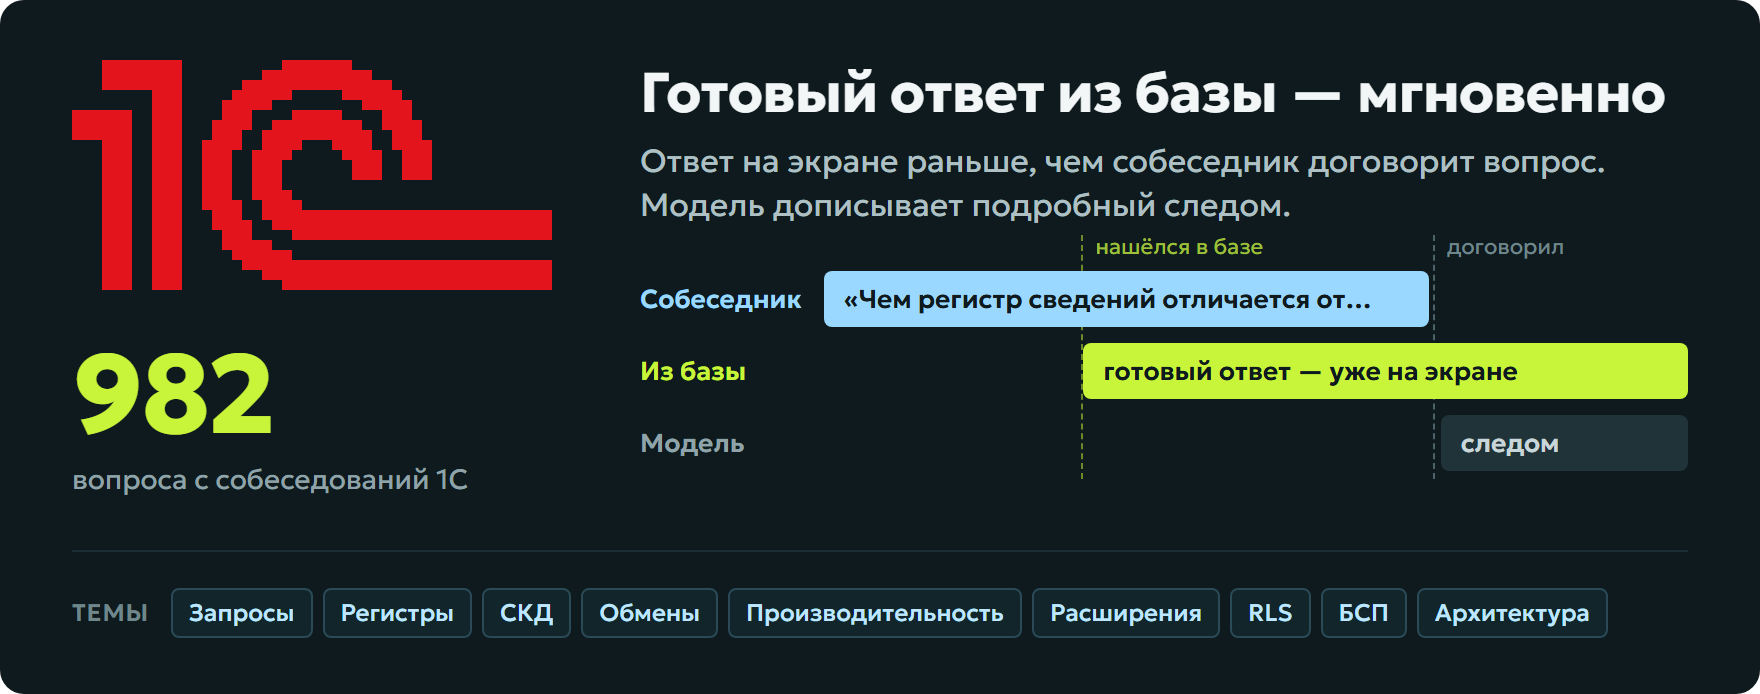
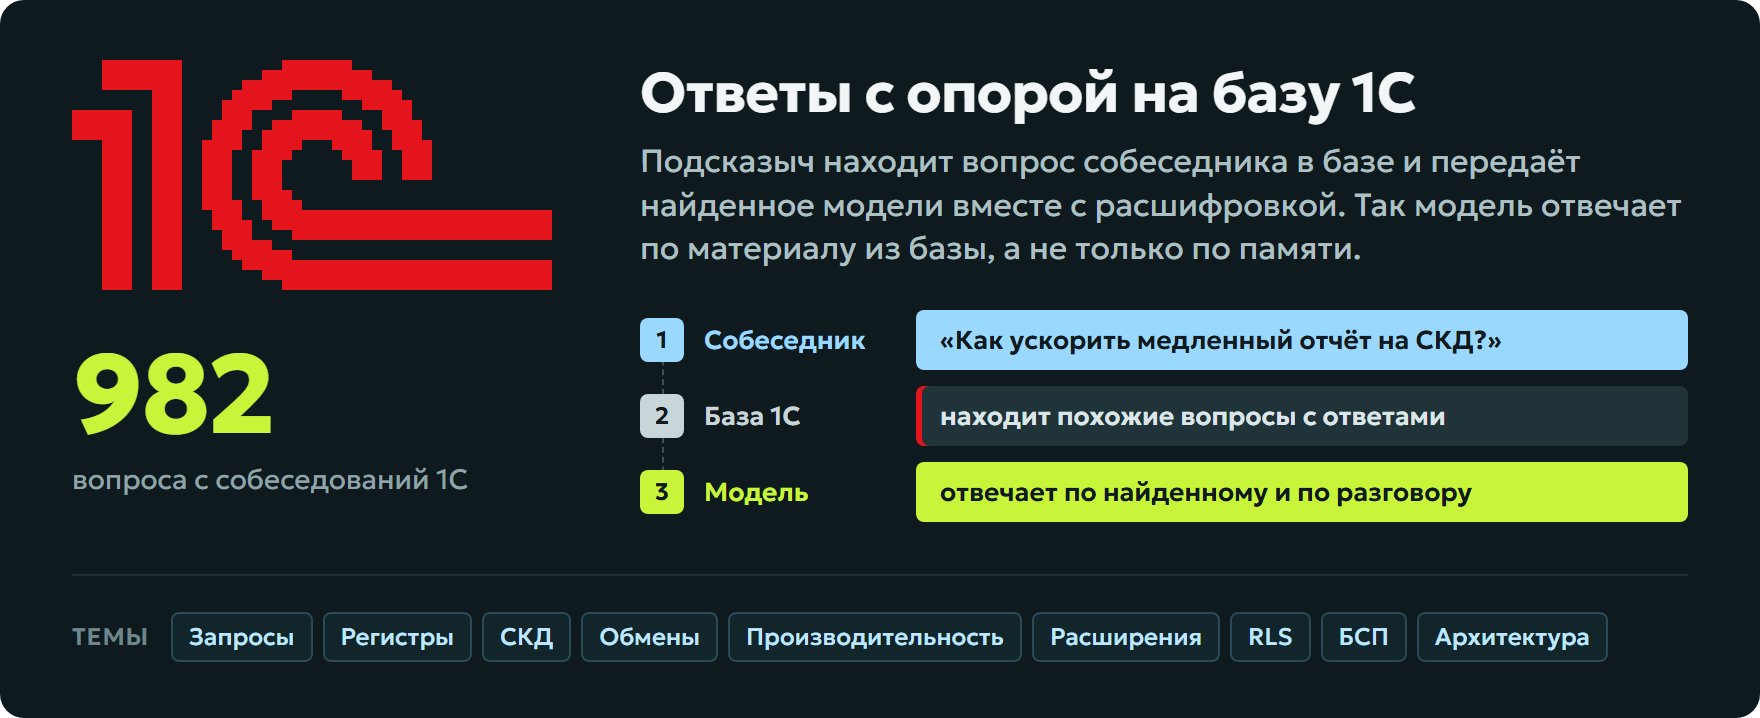
README: карточка базы 1С — как база помогает модели, а не «ответ из базы»

diff --git a/README.md b/README.md
@@ -33,7 +33,7 @@
 > **Бесплатно и с открытым кодом.** Подсказыч ничего не продаёт и не берёт денег: ни подписки, ни аккаунта, ни своего сервера. Подсказки даёт та модель, за которую вы уже платите — подписка Claude, ChatGPT или Cursor, аккаунт Google, — или бесплатная локальная через Ollama. Распознавание речи работает на вашем компьютере и не стоит ничего.
 
 <p align="center">
-  <img src="assets/kb-1c.png" alt="Готовый ответ из базы — мгновенно. В приложение встроена база из 982 вопросов с собеседований 1С: запросы, регистры, СКД, обмены, производительность, расширения, RLS, БСП, архитектура. Если похожий вопрос уже есть в базе, готовый ответ появляется на экране, пока собеседник ещё говорит. Модель дописывает подробный ответ следом." width="100%">
+  <img src="assets/kb-1c.png" alt="Ответы с опорой на базу 1С. В приложение встроена база из 982 вопросов с собеседований 1С: запросы, регистры, СКД, обмены, производительность, расширения, RLS, БСП, архитектура. Подсказыч находит вопрос собеседника в базе и передаёт найденное модели вместе с расшифровкой, поэтому модель отвечает по материалу из базы, а не только по памяти." width="100%">
 </p>
 
 ## Как это работает
